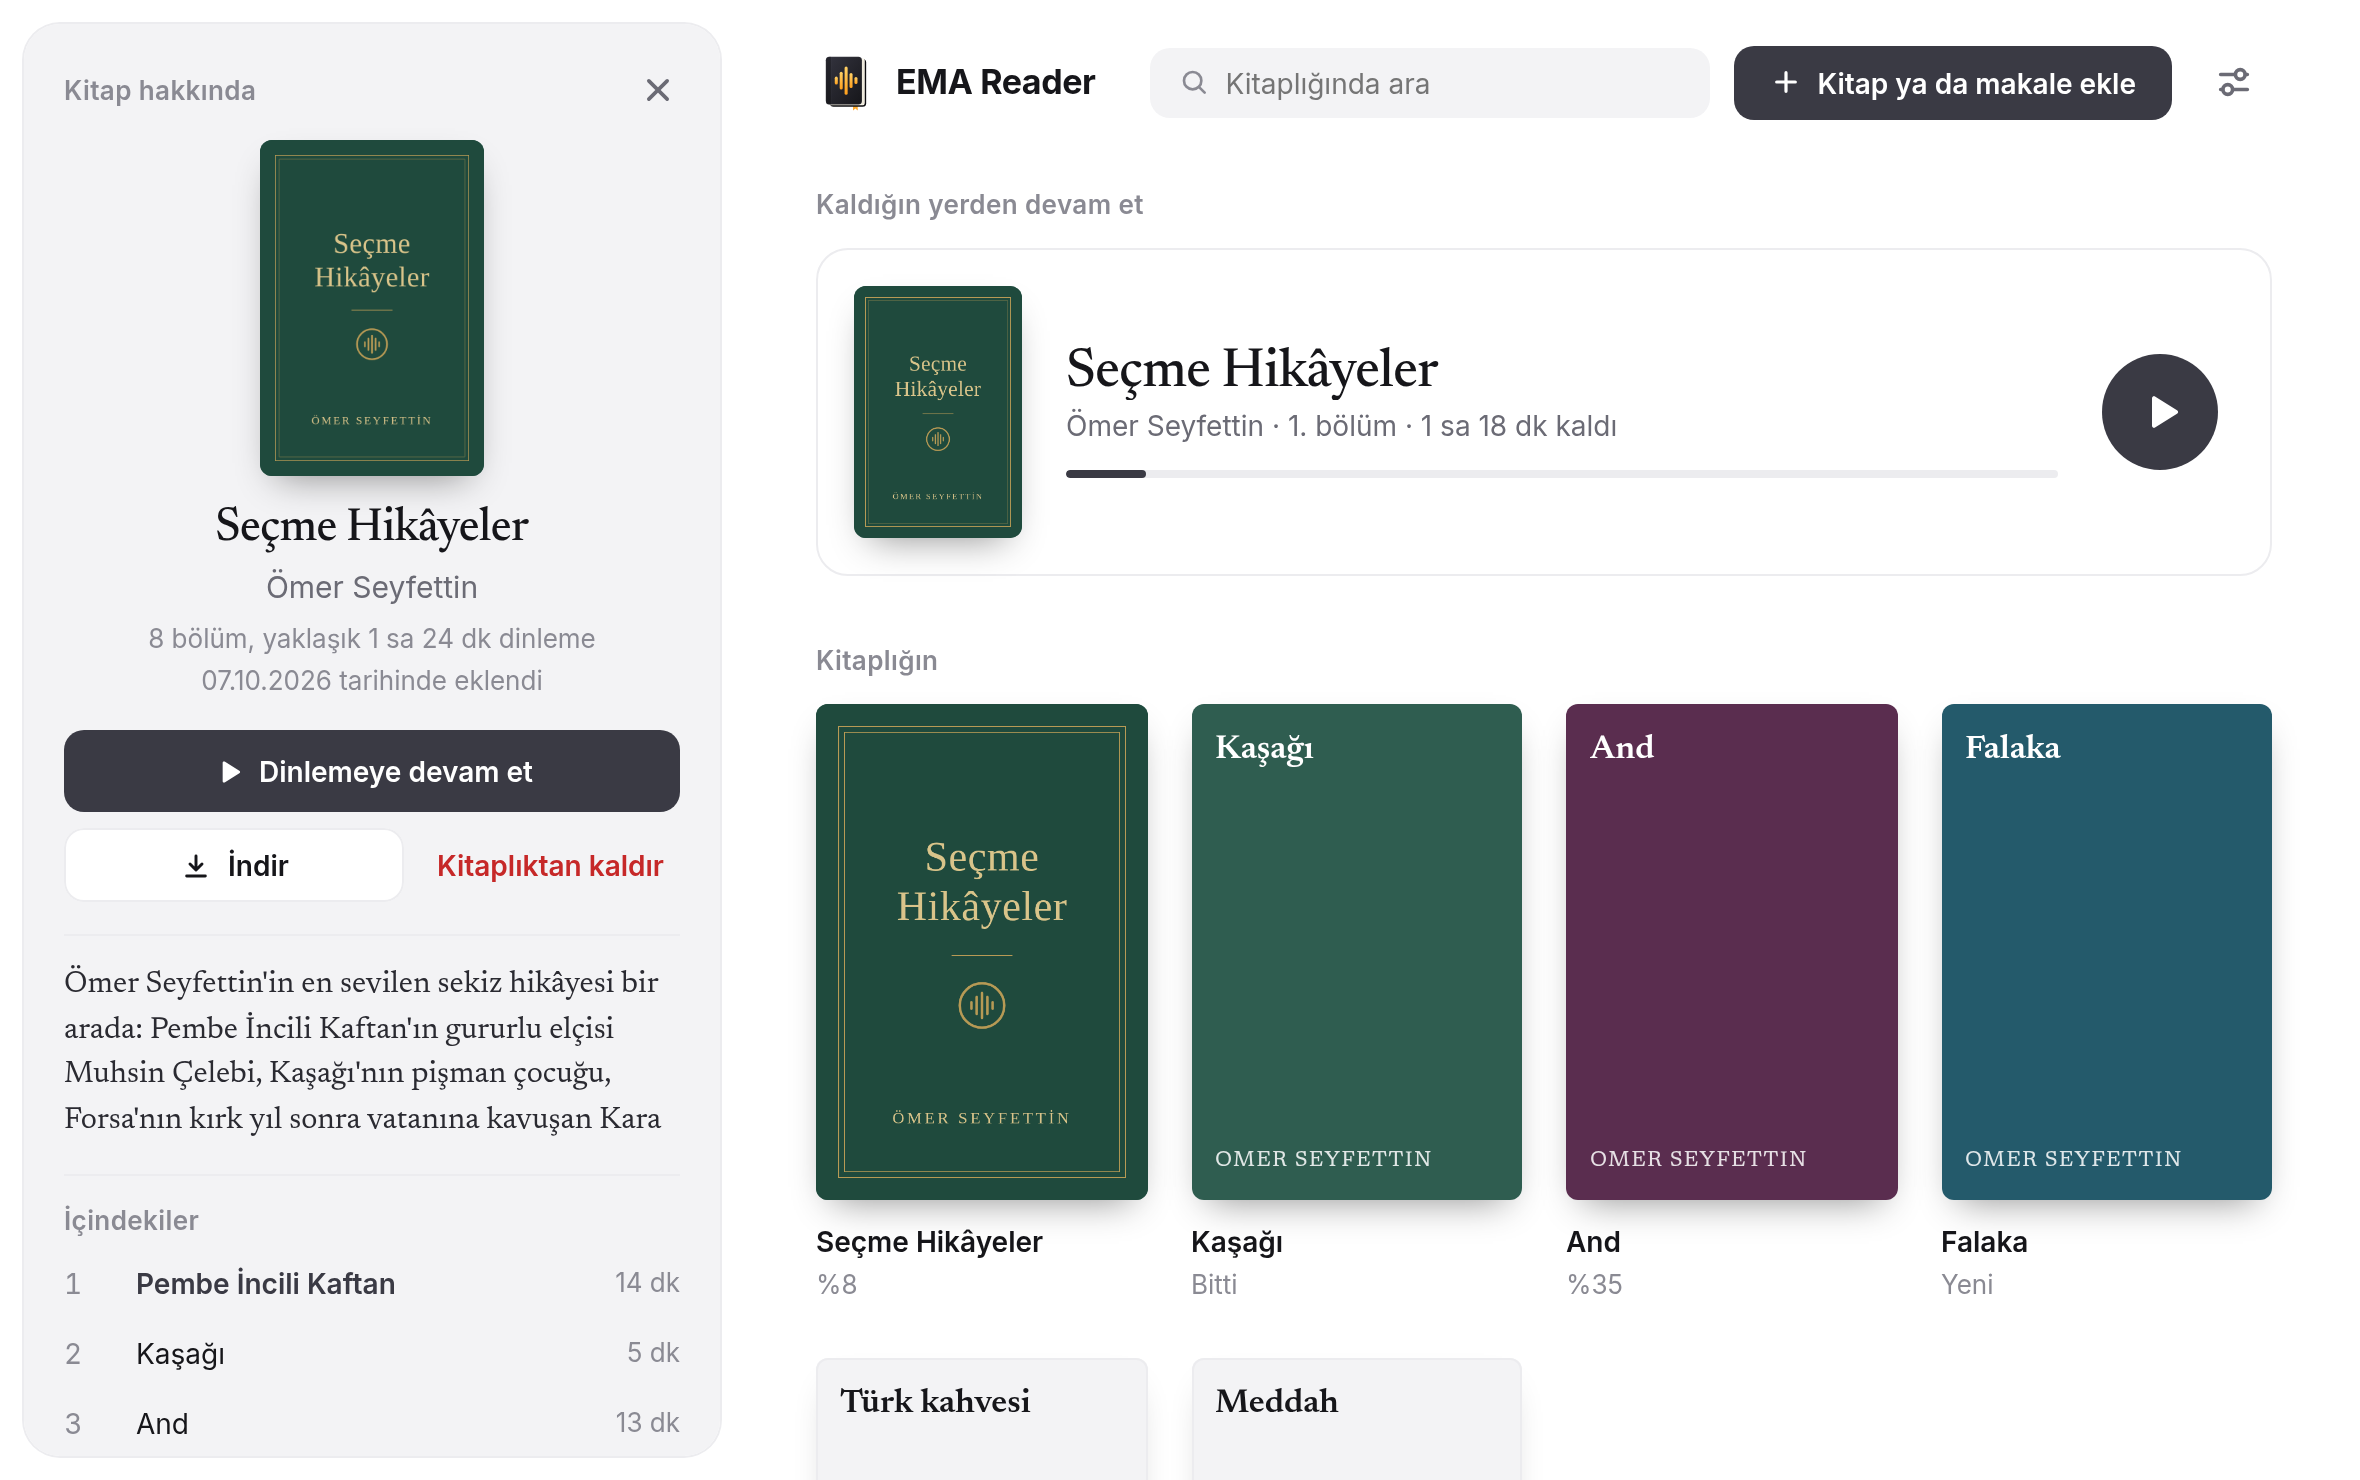
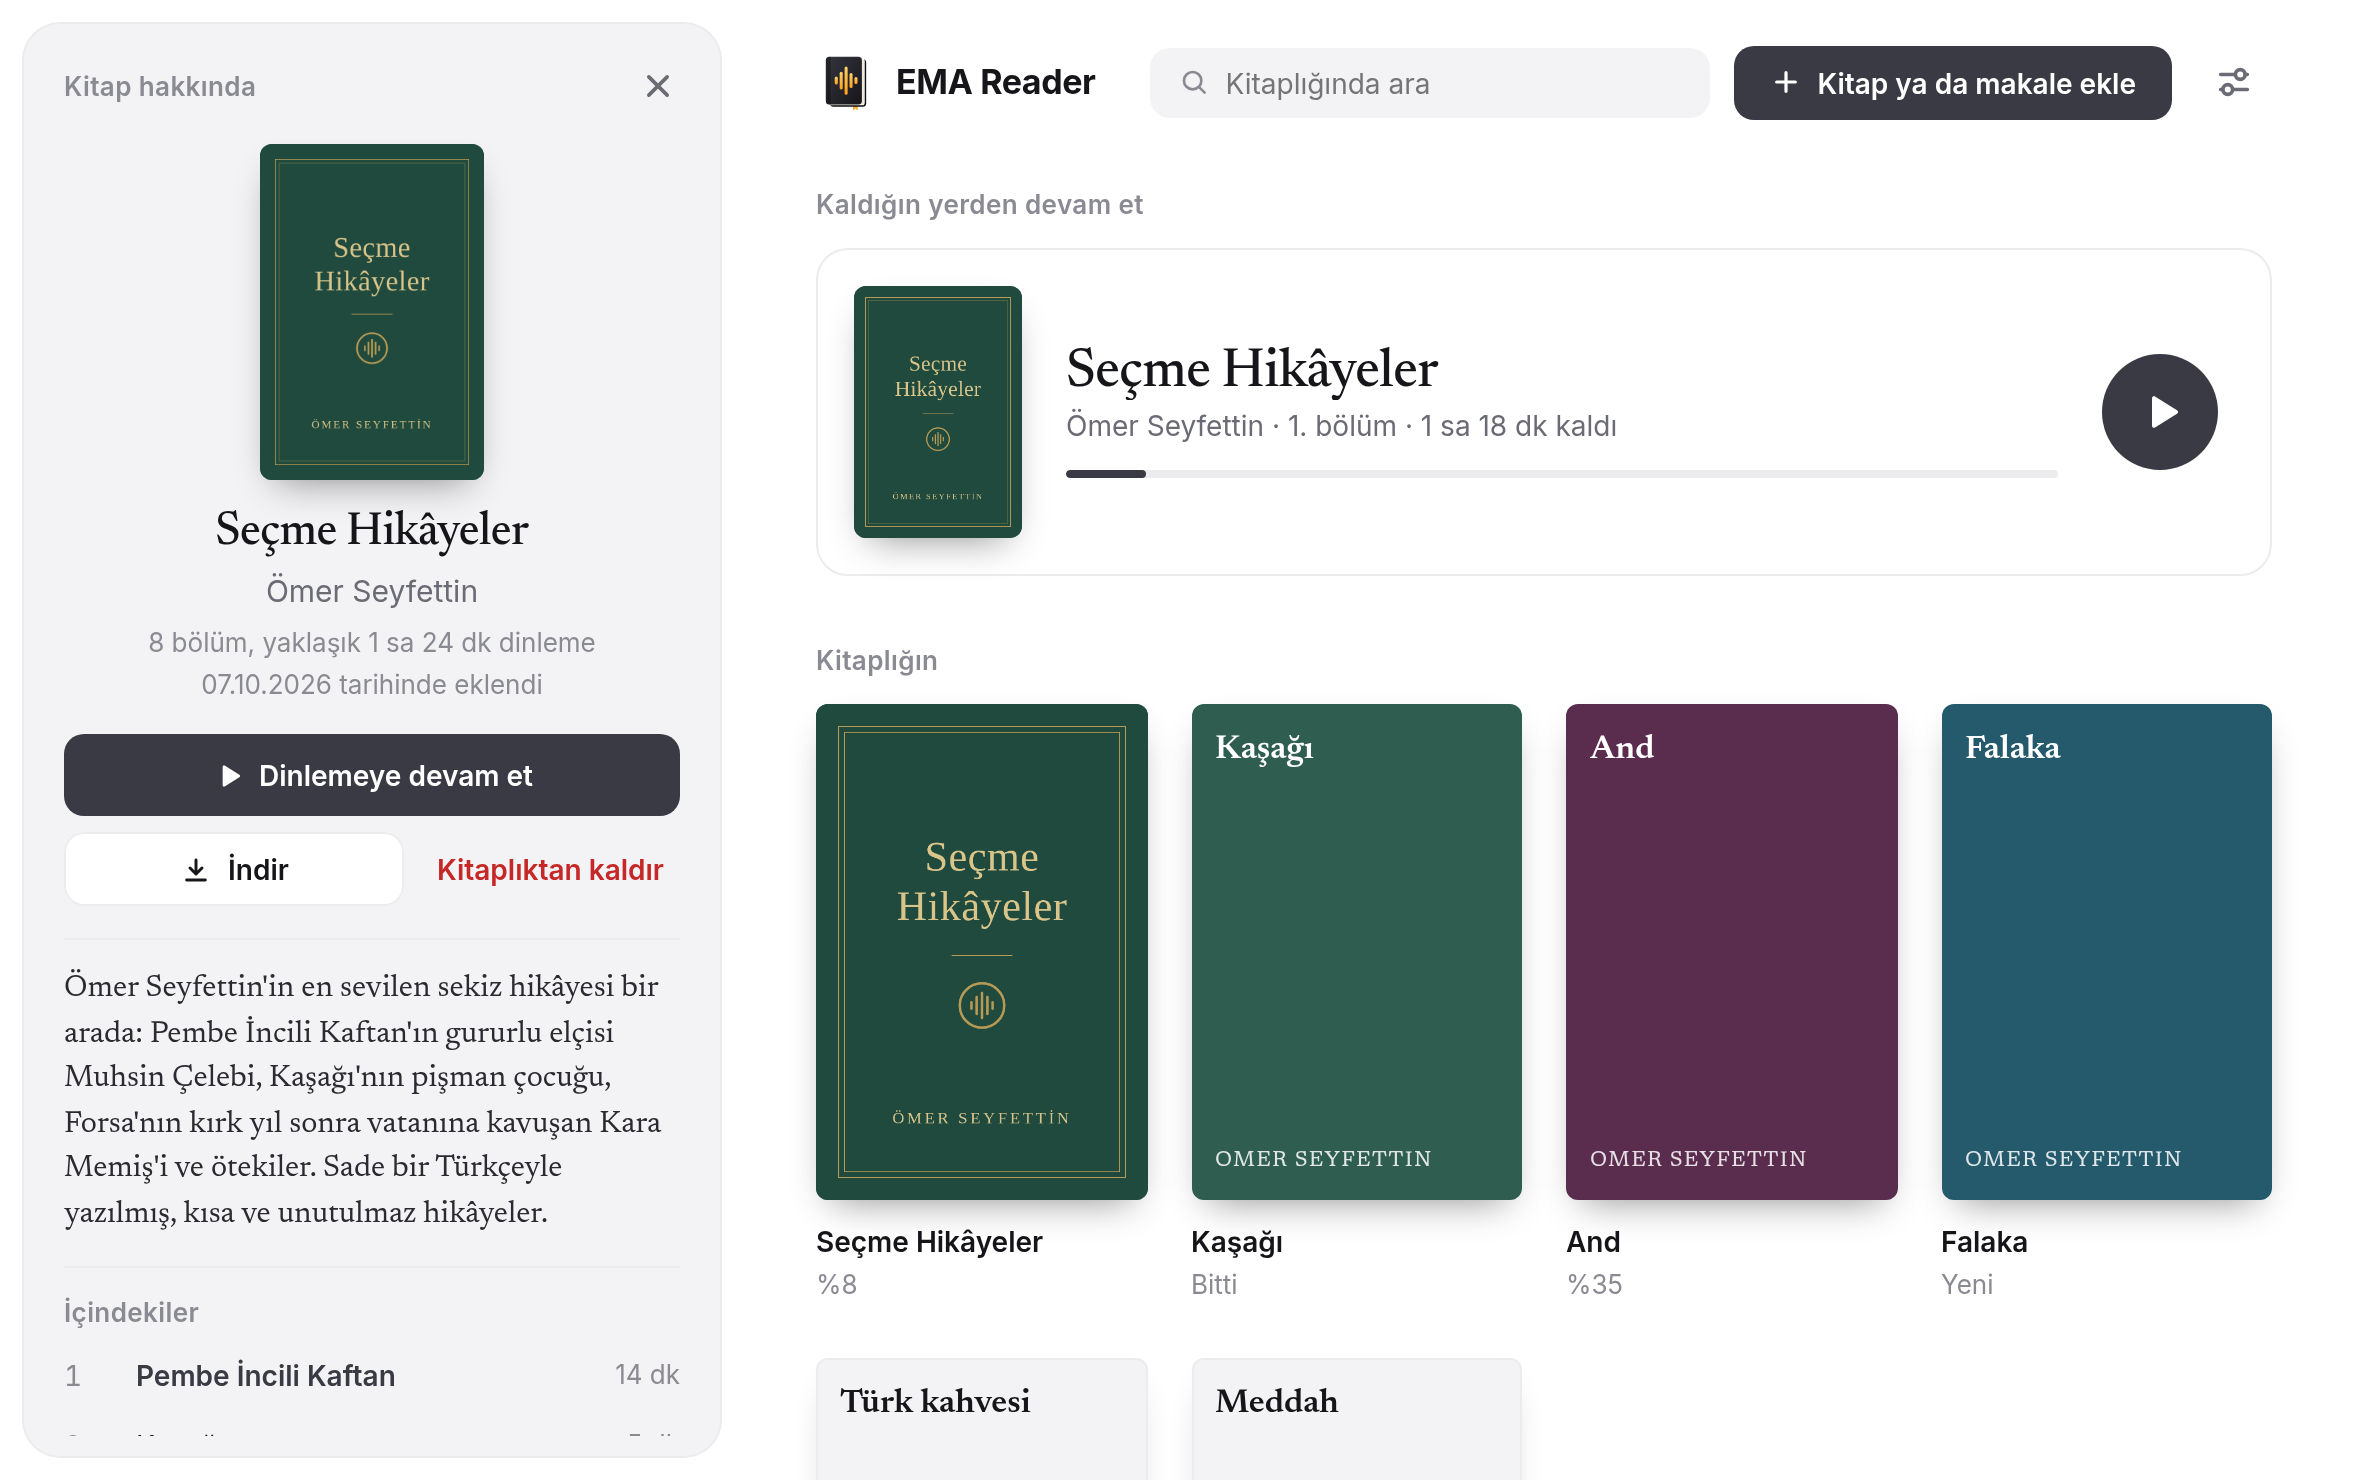
Let the book panel reach the top of the window and scroll as one
In the desktop window the page now extends under the header bar, and the bar steps aside for
the panel, which stands the full height of the window. The panel had three scrolling areas
with the engine's own bars; its heading now stays put and everything under it scrolls
together, with a thin rounded bar that the chapter list and the dialogs share.

diff --git a/static/index.html b/static/index.html
@@ -154,29 +154,42 @@
   .contents small { color: var(--faint); font-size: 13px; white-space: nowrap; }
   .contents button.current span { font-weight: 600; color: var(--accent); }
 
-  /* about a book: not a window over the page but a side panel at the left edge, and the page makes room for it.
-     It appears at once: sliding it in while the page re-wraps beside it stutters on long chapters */
+  /* about a book: not a window over the page but a side panel at the left edge, from the top of the window to the
+     bottom, and the page makes room for it. It appears at once: sliding it in while the page re-wraps beside it
+     stutters on long chapters. Its heading stays put and everything under it scrolls as one */
   #info-dialog { position: fixed; z-index: 6; inset: 12px auto 12px 12px; margin: 0; width: min(348px, calc(100vw - 24px)); height: calc(100vh - 24px); max-height: none;
-                 overflow-y: auto; border-radius: 18px; background: var(--soft); box-shadow: 0 0 0 1px var(--line); }
-  body { padding-left: var(--side, 0px); }
+                 overflow: hidden; border-radius: 18px; background: var(--soft); box-shadow: 0 0 0 1px var(--line); }
+  body { padding: var(--top, 0px) 0 0 var(--side, 0px); }
   @media (min-width: 1000px) { body.with-info { --side: 364px; } }   /* a narrower window has no room to give: there the panel lies over the page */
-  #info-dialog .sheet { display: flex; flex-direction: column; min-height: 100%; padding: 14px 20px 20px; }
-  #info-dialog .sheet > header { margin: 0 -8px 6px 0; }
+  #info-dialog:focus-visible { outline: 0; }
+  #info-dialog .sheet { display: flex; flex-direction: column; height: 100%; padding: 0; }
+  #info-dialog .sheet > header { margin: 0; padding: 12px 12px 8px 20px; }
   #info-dialog .sheet > header h3 { font-size: 13px; font-weight: 600; color: var(--faint); letter-spacing: .2px; }
+  #info-dialog .scroll { flex: 1; min-height: 0; overflow-y: auto; padding: 2px 20px 20px; margin-bottom: 10px; }
   #info-dialog .bookhead { flex-direction: column; align-items: center; text-align: center; gap: 14px; margin-bottom: 16px; }
   #info-dialog .bookhead .cover { width: 112px; text-align: left; }
+  #info-dialog .bookhead .cover strong { font-size: 12px; }
   #info-dialog .bookhead .meta { width: 100%; }
   #info-dialog .bookhead h3 { font-size: 23px; }
   #info-dialog .bookhead .by { margin-bottom: 6px; }
   #info-dialog .bookhead .facts { margin-bottom: 14px; }
-  #info-dialog .bookhead .cover strong { font-size: 12px; }
   #info-dialog .bookhead .actions { justify-content: center; }
   #info-dialog #info-listen { flex: 1 0 100%; padding: 12px 18px; }
   #info-dialog #info-download { flex: 1; background: var(--surface); box-shadow: inset 0 0 0 1px var(--line); }
-  #info-dialog .describe { flex: none; font-size: 15px; line-height: 1.5; max-height: 106px; margin-bottom: 14px; padding-top: 14px; border-top: 1px solid var(--line); }
+  #info-dialog .describe { font-size: 15px; line-height: 1.5; max-height: none; overflow: visible; margin-bottom: 14px; padding-top: 14px; border-top: 1px solid var(--line); }
   #info-dialog h5 { padding-top: 14px; border-top: 1px solid var(--line); }
-  #info-dialog .contents { flex: 1 1 0; min-height: 150px; max-height: none; }
+  #info-dialog .contents { max-height: none; overflow: visible; }
   #info-dialog .contents button:hover { background: var(--surface); }
+
+  /* scrollbars inside panels and dialogs: a thin rounded thumb that keeps clear of the edge, and no track */
+  .scroll::-webkit-scrollbar, .contents::-webkit-scrollbar, .describe::-webkit-scrollbar, .notes::-webkit-scrollbar, #chapter-list::-webkit-scrollbar { width: 12px; }
+  .scroll::-webkit-scrollbar-thumb, .contents::-webkit-scrollbar-thumb, .describe::-webkit-scrollbar-thumb, .notes::-webkit-scrollbar-thumb, #chapter-list::-webkit-scrollbar-thumb
+    { background: var(--strong-line); border: 4px solid transparent; border-radius: 999px; background-clip: content-box; min-height: 40px; }
+  .scroll::-webkit-scrollbar-thumb:hover, .contents::-webkit-scrollbar-thumb:hover, .describe::-webkit-scrollbar-thumb:hover, .notes::-webkit-scrollbar-thumb:hover, #chapter-list::-webkit-scrollbar-thumb:hover
+    { background-color: var(--faint); }
+  .scroll::-webkit-scrollbar-track, .contents::-webkit-scrollbar-track, .describe::-webkit-scrollbar-track, .notes::-webkit-scrollbar-track, #chapter-list::-webkit-scrollbar-track { background: transparent; }
+  .scroll::-webkit-scrollbar-button, .contents::-webkit-scrollbar-button, .describe::-webkit-scrollbar-button, .notes::-webkit-scrollbar-button, #chapter-list::-webkit-scrollbar-button { display: none; }
+  @supports not selector(::-webkit-scrollbar) { .scroll, .contents, .describe, .notes, #chapter-list { scrollbar-width: thin; scrollbar-color: var(--strong-line) transparent; } }
 
   .options { display: grid; grid-template-columns: repeat(3, 1fr); gap: 8px; }
   .options button { text-align: left; padding: 12px 14px; border-radius: 12px; border: 1.5px solid var(--line); min-width: 0; }
@@ -226,7 +239,7 @@
   #speeds button.on { font-weight: 700; color: var(--accent); }
   #speeds small { color: var(--faint); font-weight: 400; }
 
-  #chapters { position: fixed; top: 0; right: 0; bottom: 0; width: min(340px, 100vw); background: var(--surface); box-shadow: -20px 0 60px -20px var(--shade), 0 0 0 1px var(--line); display: flex; flex-direction: column; transform: translateX(105%); visibility: hidden; transition: transform .2s, visibility .2s; z-index: 5; }
+  #chapters { position: fixed; top: var(--top, 0px); right: 0; bottom: 0; width: min(340px, 100vw); background: var(--surface); box-shadow: -20px 0 60px -20px var(--shade), 0 0 0 1px var(--line); display: flex; flex-direction: column; transform: translateX(105%); visibility: hidden; transition: transform .2s, visibility .2s; z-index: 5; }
   #chapters.open { transform: none; visibility: visible; }
   #chapters header { display: flex; align-items: center; padding: 14px 14px 10px 22px; }
   #chapters h3 { flex: 1; margin: 0; font-size: 16px; font-weight: 700; }
@@ -237,7 +250,7 @@
   #chapter-list i { font-style: normal; color: var(--faint); font-variant-numeric: tabular-nums; min-width: 22px; }
   #chapter-list span { overflow-wrap: anywhere; }
 
-  #toast { position: fixed; left: 50%; top: 20px; transform: translateX(-50%); background: var(--ink); color: var(--on-ink); padding: 10px 18px; border-radius: 10px; font-size: 14px; z-index: 60; }
+  #toast { position: fixed; left: 50%; top: calc(20px + var(--top, 0px)); transform: translateX(-50%); background: var(--ink); color: var(--on-ink); padding: 10px 18px; border-radius: 10px; font-size: 14px; z-index: 60; }
 
   /* onboarding: a veil with a hole around what is being shown, a hand-written note and a dashed arrow */
   #tour { position: fixed; inset: 0; z-index: 50; pointer-events: none; }   /* what it points at stays clickable */
@@ -269,6 +282,7 @@
   @media (prefers-reduced-motion: reduce) { #tour .dashes, #tour .reveal, #tour .head, #tour-note { animation: none; opacity: 1; } }
 
   /* inside the desktop window, whose header bar has the title and these buttons */
+  .shell { --top: 47px; }   /* the window's header bar lies over the top of the page; the window says how tall it is */
   .shell .top, .shell .rtop { display: none; }
   .shell .top.searching { display: flex; justify-content: center; }
   .shell .top.searching > :not(.search) { display: none; }
@@ -413,9 +427,10 @@
   </div>
 </dialog>
 
-<dialog id="info-dialog">
+<dialog id="info-dialog" tabindex="-1">
   <div class="sheet">
     <header><h3 data-t="aboutBook"></h3><button class="icon" data-close data-label="close"><svg width="20" height="20"><use href="#i-close"/></svg></button></header>
+    <div class="scroll">
     <div class="bookhead">
       <div id="info-cover"></div>
       <div class="meta">
@@ -432,6 +447,7 @@
     <p class="describe" id="info-description"></p>
     <h5 data-t="contents"></h5>
     <div class="contents" id="info-contents"></div>
+    </div>
   </div>
 </dialog>
 
@@ -583,6 +599,11 @@ function tellShell() {
 }
 let shellReply = null;
 window.shellAnswer = value => shellReply?.(value);
+let shellTop = shell ? 47 : 0;
+window.shellTop = height => { shellTop = height; document.documentElement.style.setProperty("--top", `${height}px`); };
+// the header bar steps aside for the panel that stands at the left edge, which reaches the top of the window
+const tellSide = () => tell({side: parseFloat(getComputedStyle(document.body).paddingLeft) || 0});
+window.addEventListener("resize", tellSide);
 function askShell(question) {   // where is one of the window's own buttons?
   return new Promise(resolve => {
     shellReply = resolve;
@@ -681,7 +702,7 @@ document.querySelectorAll("dialog").forEach(dialog => {
   dialog.querySelectorAll("[data-close]").forEach(b => b.onclick = () => dialog.close());
   dialog.addEventListener("click", e => { if (e.target === dialog) dialog.close(); });
 });
-$("info-dialog").addEventListener("close", () => document.body.classList.remove("with-info"));
+$("info-dialog").addEventListener("close", () => { document.body.classList.remove("with-info"); tellSide(); });
 const chapterTitle = (b, n) => b.chapters[n].title || t("chapterN", n + 1);
 
 /* library */
@@ -847,7 +868,9 @@ async function openInfo(id) {
     return row;
   }));
   $("info-dialog").show();   // not modal: the page stays in use beside it
+  $("info-dialog").focus({preventScroll: true});   // the panel itself, not its close button, which would show a focus ring
   document.body.classList.add("with-info");
+  tellSide();
 }
 
 /* downloading: a chapter or the whole book, as audio or text */
@@ -1331,7 +1354,7 @@ const tour = {
     {target: async () => {
        if (!shell) return $("add").getBoundingClientRect();
        const box = await askShell("add") || {left: 6, right: 40};
-       return {left: box.left, right: box.right, top: -34, bottom: -4};
+       return {left: box.left, right: box.right, top: shellTop - 34, bottom: shellTop - 4};
      },
      text: "tourAdd", from: () => shell ? [230, 240] : [-330, 170], bend: 80, last: true,
      before: async () => { await showLibrary(); tell({highlight: "add"}); }},

diff --git a/desktop.py b/desktop.py
@@ -247,7 +247,10 @@ def run_gtk(data, splash):
                          "add": not reader and not empty, "search": not reader and not empty, "settings": True}
                 for name, visible in shown.items():
                     buttons[name].set_visible(visible)
+                run(f"shellTop({header.get_height()})")
                 logo.set_visible(not reader and logo.get_paintable() is not None)
+            if "side" in message:  # a panel stands at the left edge of the page: the header bar makes room for it
+                header.set_margin_start(max(0, int(message["side"])))
             if "theme" in message:
                 set_theme(message["theme"] == "dark", message.get("accent"))
             if "open" in message and str(message["open"]).startswith(("http://", "https://")):
@@ -289,7 +292,8 @@ def run_gtk(data, splash):
 
         session.connect("download-started", on_download)
 
-        view = Adw.ToolbarView(content=toasts)
+        # the page reaches up under the header bar, so that its side panel can stand the full height of the window
+        view = Adw.ToolbarView(content=toasts, extend_content_to_top_edge=True)
         view.add_top_bar(header)
         window = Adw.ApplicationWindow(application=application, title=NAME, default_width=1220, default_height=820, content=view)
         window.set_size_request(420, 560)
